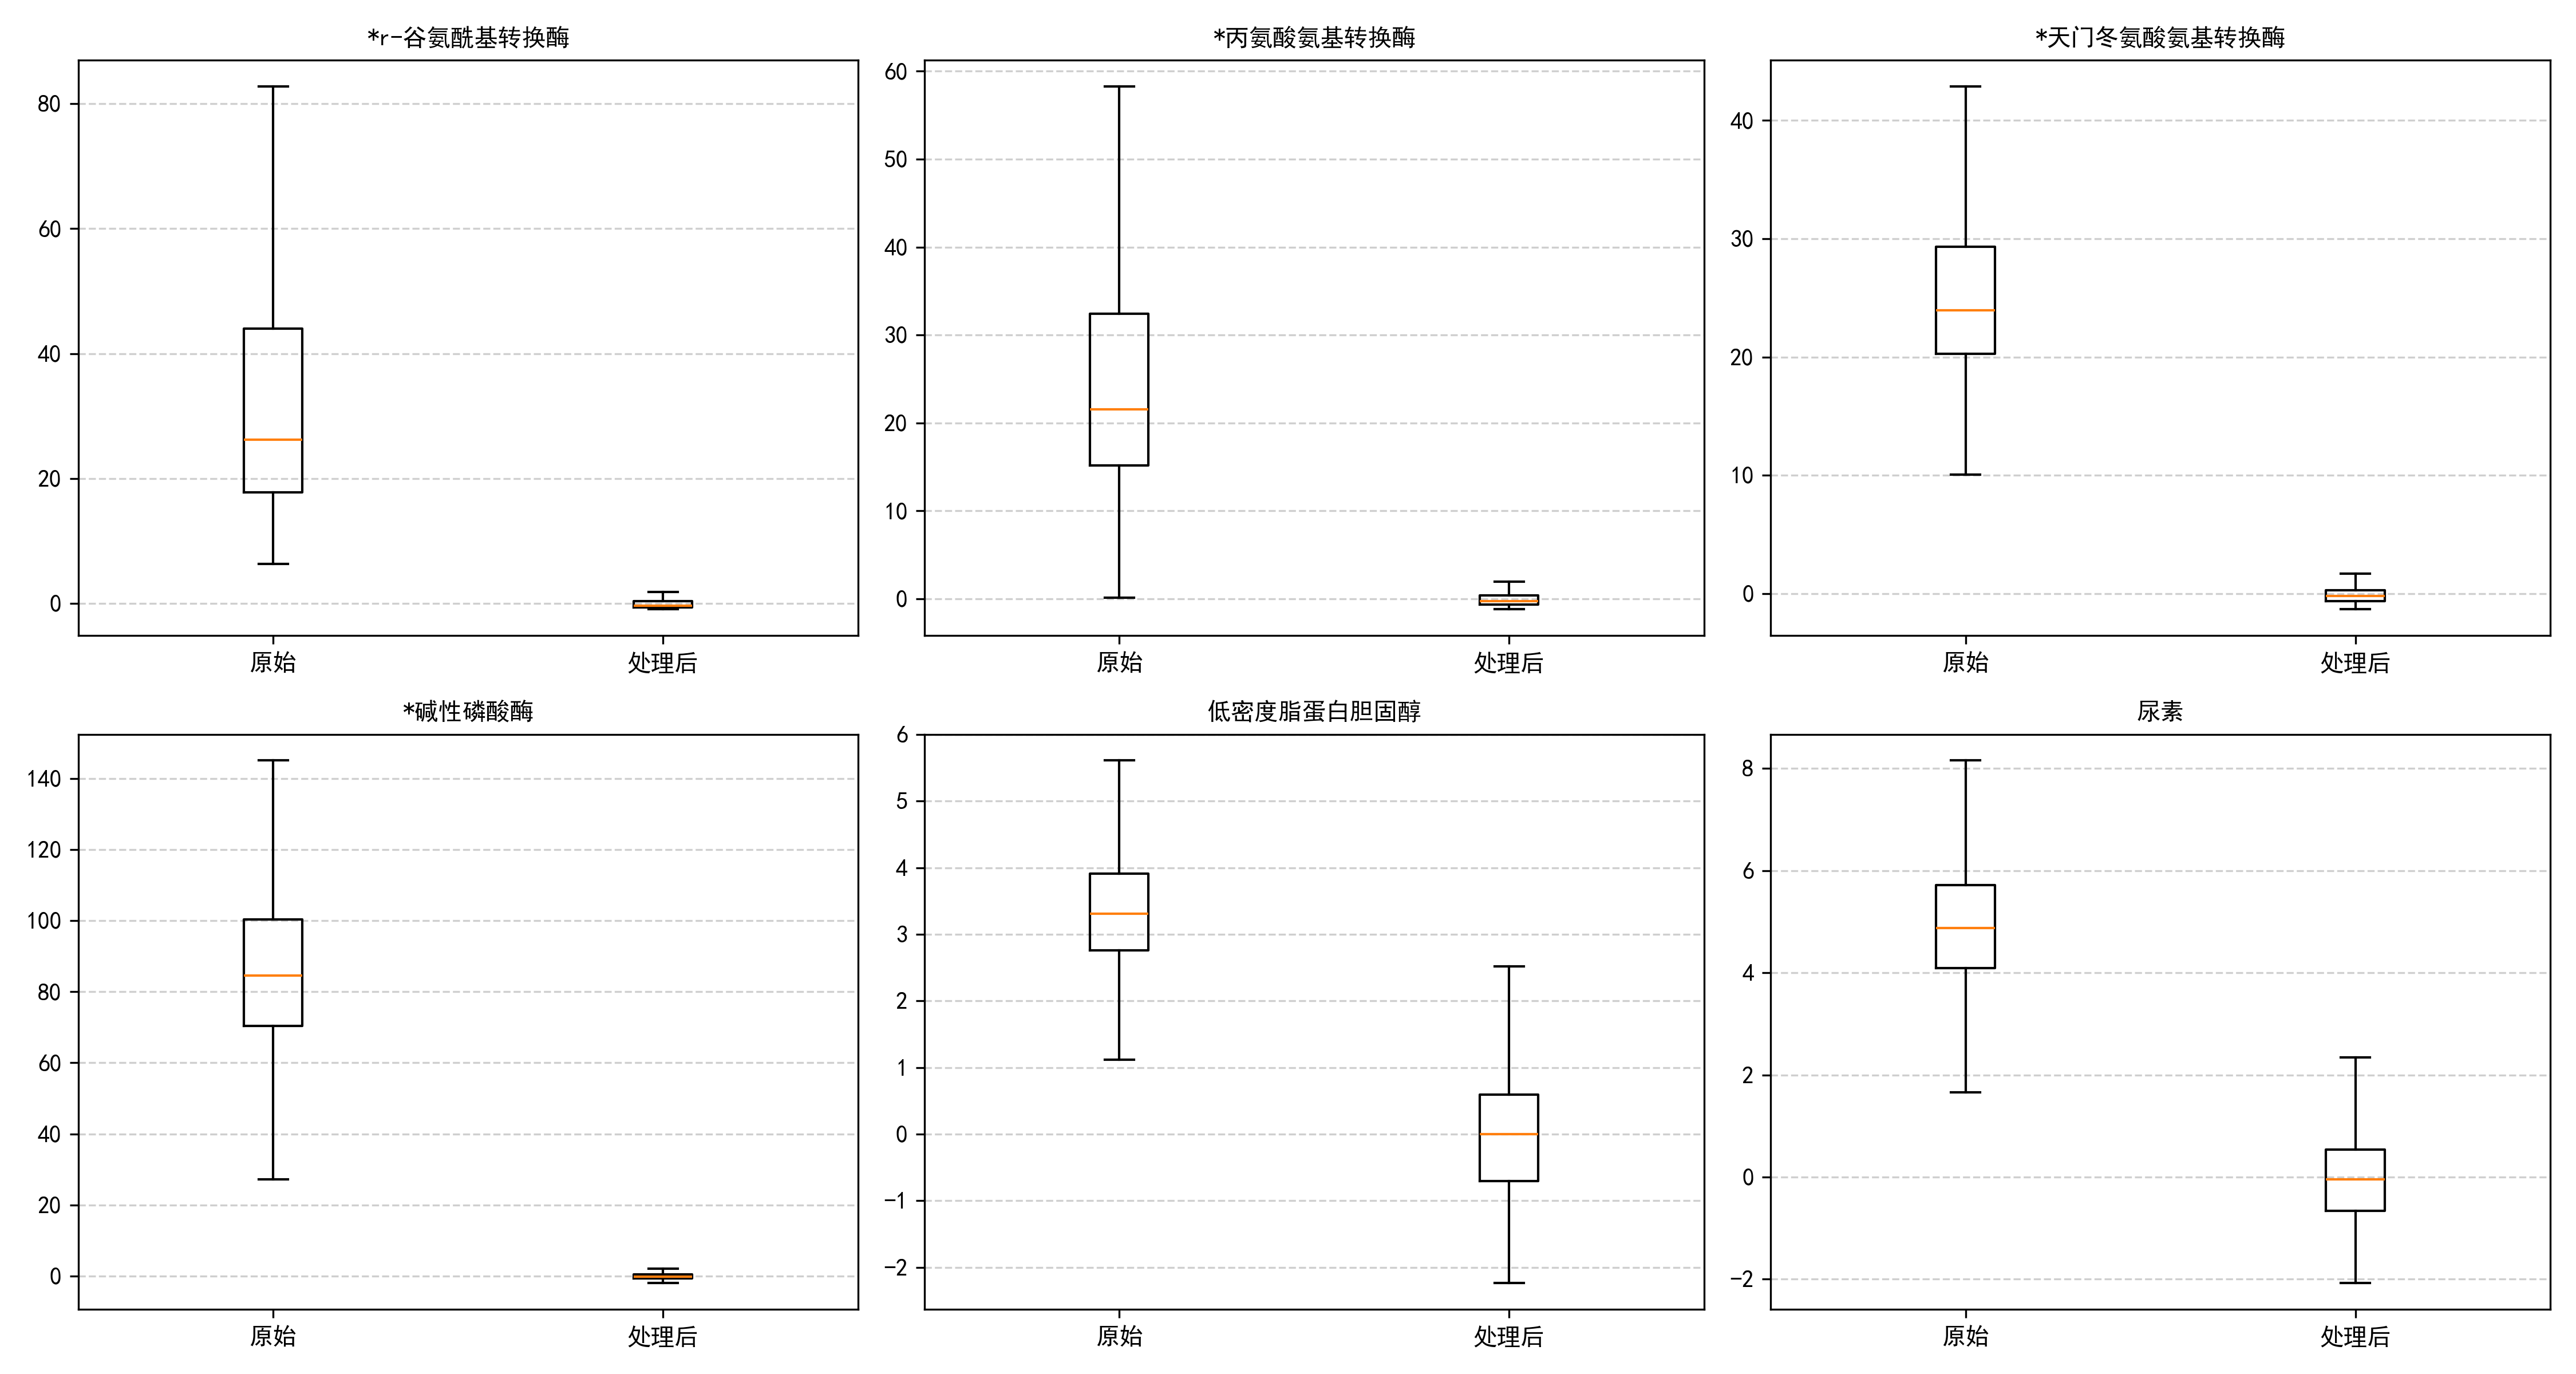
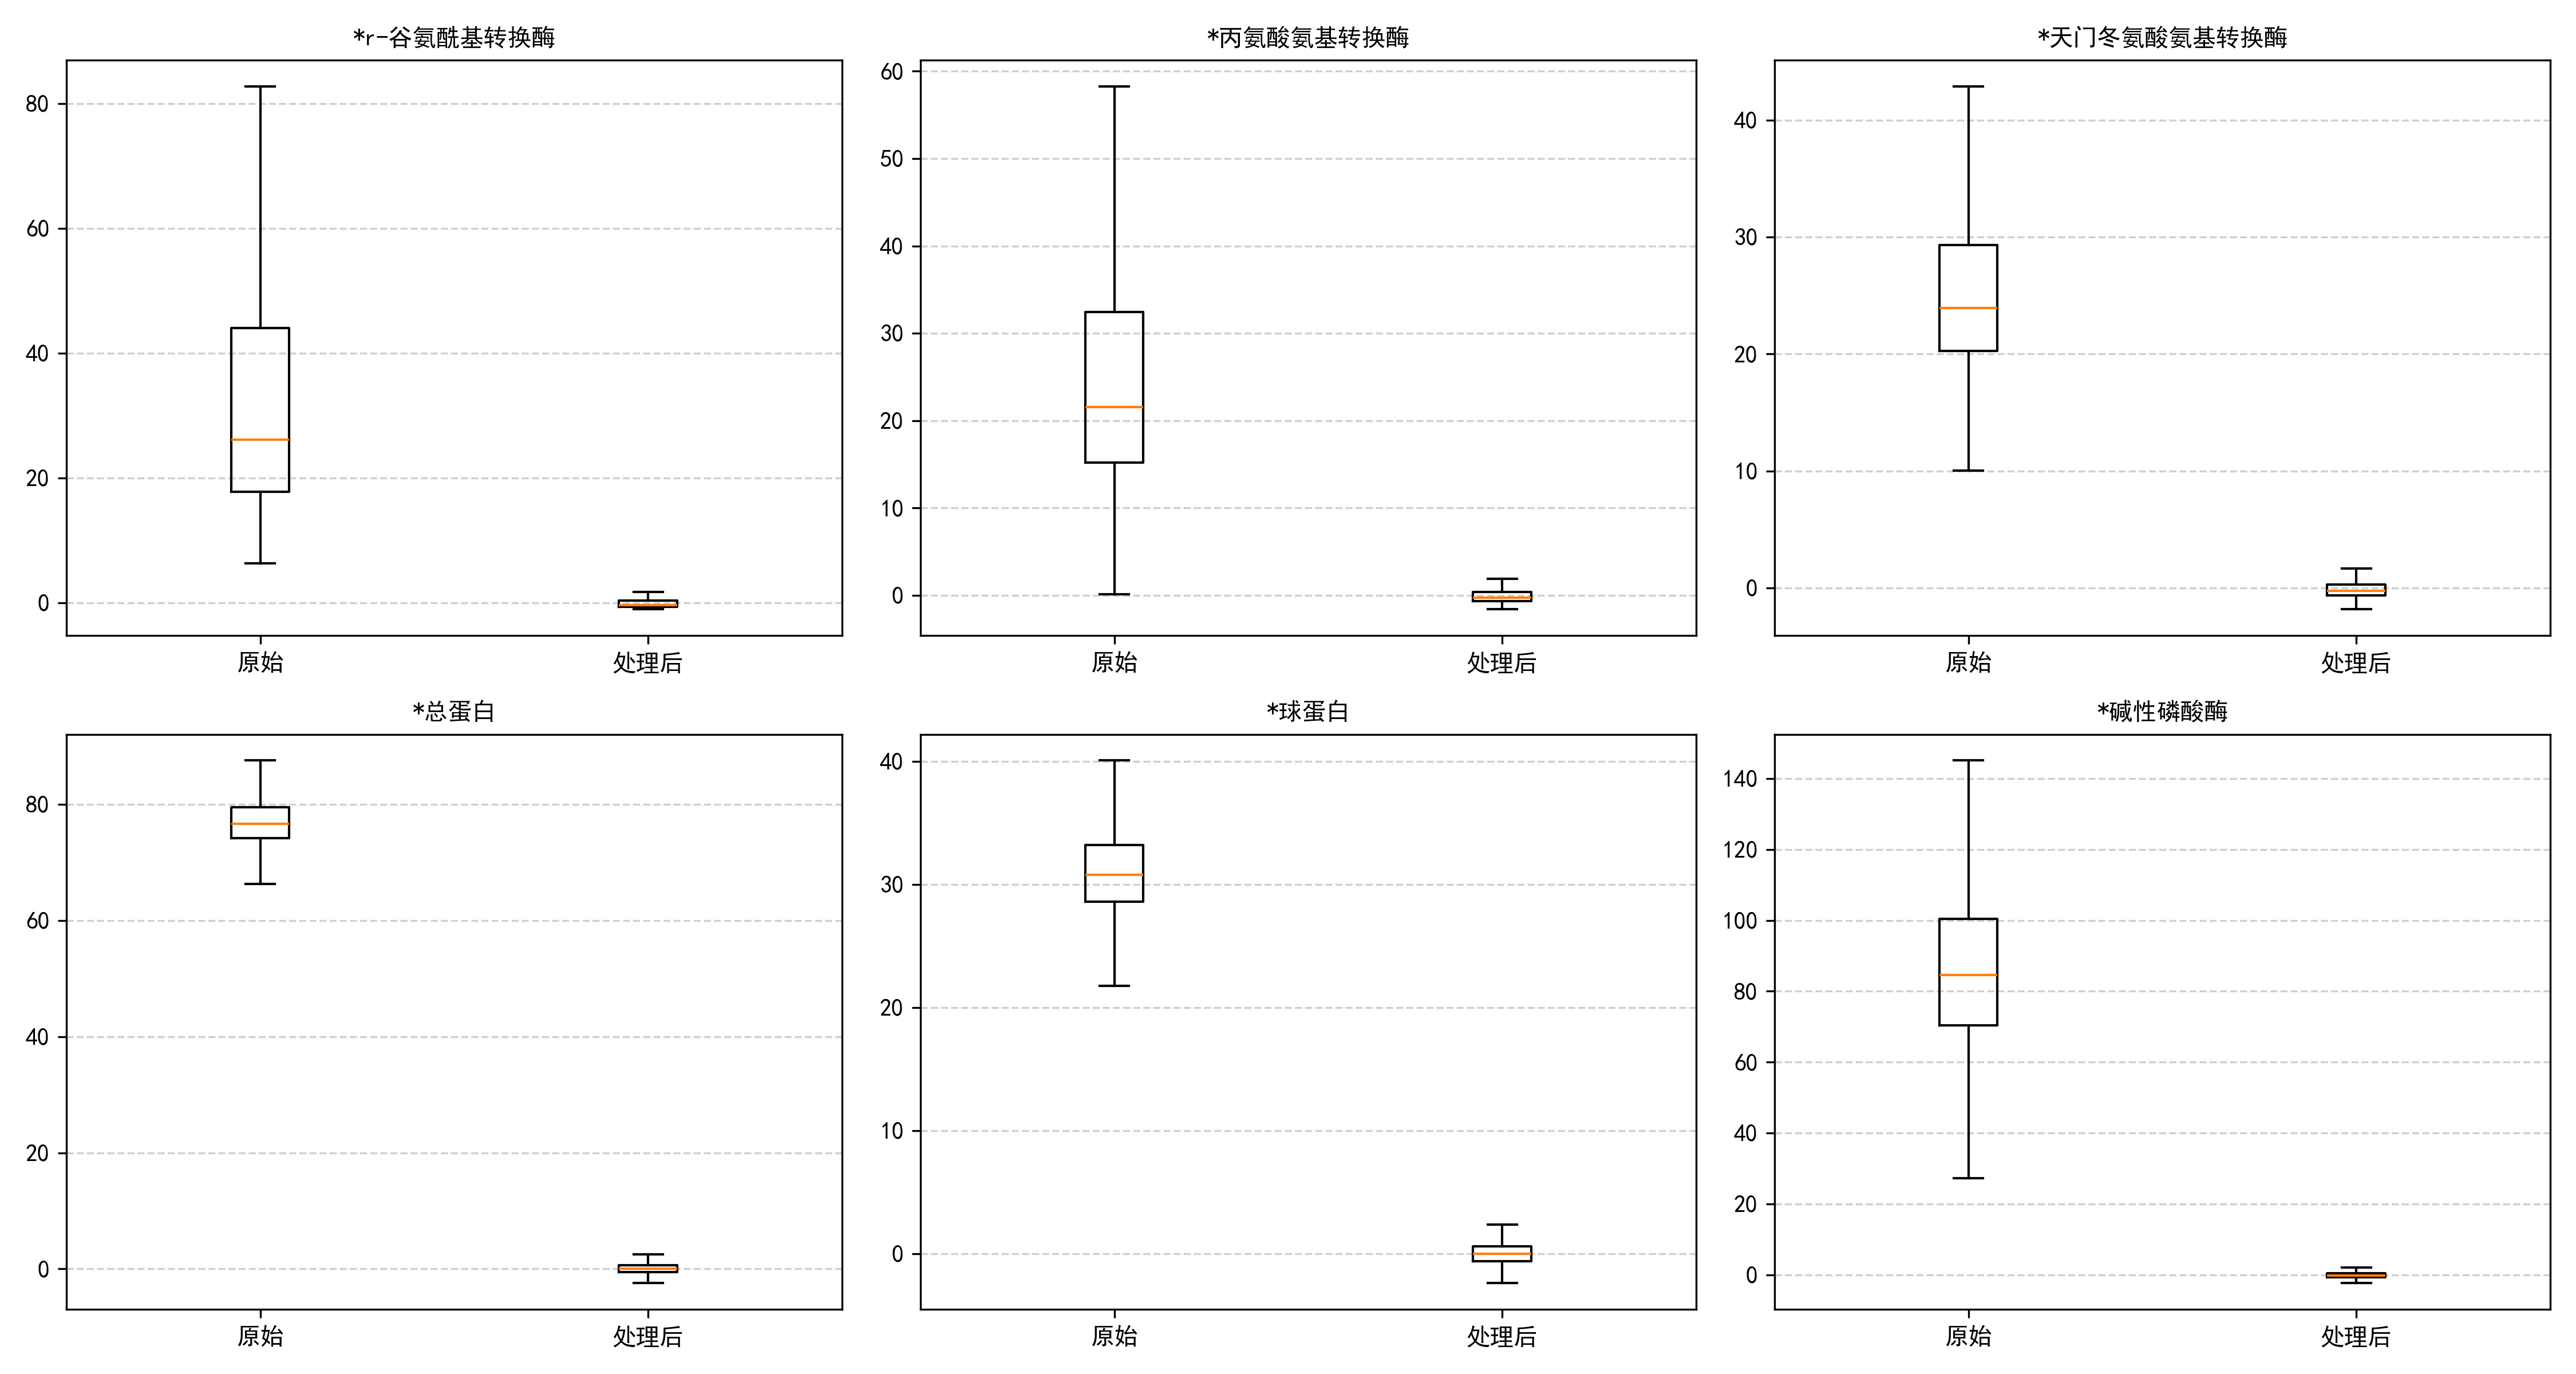
1

diff --git a/feature_selection.py b/feature_selection.py
@@ -4,7 +4,7 @@ import matplotlib.pyplot as plt
 import seaborn as sns
 from sklearn.linear_model import LassoCV
 from sklearn.ensemble import RandomForestRegressor
-from sklearn.preprocessing import MinMaxScaler
+from sklearn.preprocessing import StandardScaler, MinMaxScaler
 import os
 import warnings
 
@@ -15,107 +15,159 @@ plt.rcParams['font.sans-serif'] = ['SimHei', 'Microsoft YaHei']
 plt.rcParams['axes.unicode_minus'] = False
 os.makedirs('pictures', exist_ok=True)
 
-print("📥 加载预处理数据...")
+# 1. 加载预处理后的数据
+print("正在加载预处理后的数据...")
 df = pd.read_csv('with_blood_processed.csv')
+
 y = df['血糖']
 X = df.drop(columns=['血糖'])
+features = X.columns.tolist()
 
 # 结果收集容器
-results_df = pd.DataFrame(index=X.columns)
+results_df = pd.DataFrame({'特征': features}).set_index('特征')
 
-# ================= 1. Pearson 初筛与打分 =================
-print("🔍 步骤1: Pearson 相关系数初筛 (剔除 |r|<0.1)...")
-pearson = df.corr()['血糖'].abs().drop('血糖')
-results_df['Pearson'] = pearson
 
-# 初筛过滤（题目要求）
-pearson_pass = pearson[pearson >= 0.1].index.tolist()
-print(f"✅ Pearson 初筛保留: {len(pearson_pass)} 个特征")
+# 辅助函数：绘制带数据标签的水平条形图（修正颜色与边界）
+def plot_bar_with_labels(series, title, filename, unit='', top_n=20, color='steelblue', ascending=False):
+    plt.figure(figsize=(10, 8))
+    data_to_plot = series.sort_values(ascending=ascending).head(top_n)
 
-# 仅对通过初筛的特征进行后续计算
-X_pass = X[pearson_pass]
-results_df = results_df.loc[pearson_pass]
+    # 使用单一颜色，避免 palette 参数错误
+    ax = sns.barplot(x=data_to_plot.values, y=data_to_plot.index, color=color, edgecolor='black')
 
-# ================= 2. VIF 共线性检验与打分 =================
-print("📐 步骤2: VIF 多重共线性检验 (剔除 >10)...")
-# 使用稳定的 OLS 拟合计算 VIF，避免矩阵求逆奇异
-from numpy.linalg import pinv
-corr_mat = X_pass.corr().values
-vif_values = np.diag(pinv(corr_mat))
-# 修正理论最小值 1.0
-vif_values = np.maximum(vif_values, 1.0)
-vif_series = pd.Series(vif_values, index=X_pass.columns)
-results_df['VIF'] = vif_series
+    # 添加数据标签
+    for container in ax.containers:
+        ax.bar_label(container, fmt=f'%.4f {unit}', padding=5, fontsize=10)
 
-# 题目要求：>10 直接剔除
-vif_pass = vif_series[vif_series <= 10].index.tolist()
-print(f"✅ VIF 检验保留: {len(vif_pass)} 个特征 (剔除强共线性)")
-results_df = results_df.loc[vif_pass]
+    plt.title(title, fontsize=15, pad=15)
+    plt.xlabel('数值 / 分数')
+    plt.ylabel('特征名称')
+    max_val = data_to_plot.max()
+    # 处理全零情况
+    if max_val > 0:
+        plt.xlim(0 if data_to_plot.min() >= 0 else data_to_plot.min() * 1.1, max_val * 1.2)
+    else:
+        plt.xlim(0, 1)
+    plt.tight_layout()
+    plt.savefig(f'pictures/{filename}', dpi=300)
+    plt.close()
 
-# ================= 3. Lasso 正则化筛选 =================
-print("📉 步骤3: Lasso 回归 (L1正则压缩)...")
-# 注意：X_pass 已在预处理中标准化，此处无需重复 StandardScaler
-lasso = LassoCV(cv=5, random_state=42, n_jobs=-1).fit(X_pass, y)
-results_df['Lasso'] = pd.Series(np.abs(lasso.coef_), index=X_pass.columns)
 
-# ================= 4. 随机森林重要性 =================
-print("🌲 步骤4: Random Forest 特征重要性...")
-rf = RandomForestRegressor(n_estimators=300, max_depth=12, random_state=42, n_jobs=-1)
-rf.fit(X_pass, y)
-results_df['RF'] = pd.Series(rf.feature_importances_, index=X_pass.columns)
+# ================= 第一步：Pearson 相关系数 =================
+print("正在计算 Pearson 相关系数...")
+corr_matrix = df.corr()
+pearson_raw = corr_matrix['血糖'].drop('血糖').abs()
+results_df['Pearson(绝对值)'] = pearson_raw
 
-# ================= 5. 综合归一化与加权打分 =================
-print("📊 步骤5: 综合归一化打分...")
+plot_bar_with_labels(pearson_raw, 'Top 20 Pearson相关系数 (绝对值)', '01_Pearson_Raw.png', color='cornflowerblue')
+
+# ---------- 新增：Pearson初筛，剔除弱相关特征，但强制保留性别、年龄 ----------
+print("正在进行 Pearson 初筛 (|r| >= 0.05，并强制保留性别、年龄)...")
+# 初筛条件：相关系数绝对值 >= 0.05 或者特征名为 '性别' 或 '年龄'
+selected_by_pearson = pearson_raw[(pearson_raw >= 0.05) | (pearson_raw.index.isin(['性别', '年龄']))].index.tolist()
+print(f"初筛后保留特征数: {len(selected_by_pearson)}")
+X = X[selected_by_pearson]   # 后续只对通过初筛的特征进行分析
+
+# ================= 第二步：VIF 共线性计算 =================
+print("正在计算 VIF 多重共线性...")
+corr_mat = X.corr().values
+inv_corr = np.linalg.pinv(corr_mat)
+vif_raw = pd.Series(np.diag(inv_corr), index=X.columns)
+vif_raw = vif_raw.apply(lambda x: max(1.0, x))   # 将小于1的值修正为1（理论最小值）
+# 注意：results_df 中可能存在未通过初筛的特征，VIF 只对初筛后的特征填充
+results_df['VIF值'] = np.nan
+results_df.loc[vif_raw.index, 'VIF值'] = vif_raw
+
+plot_bar_with_labels(vif_raw, 'Top 20 独立特征 (VIF值最小)', '02_VIF_Raw.png', ascending=True, color='mediumseagreen')
+
+
+# ================= 第三步：Lasso 回归 =================
+print("正在计算 Lasso 惩罚系数...")
+scaler = StandardScaler()
+X_scaled = scaler.fit_transform(X)
+
+lasso = LassoCV(cv=5, random_state=42, n_jobs=-1).fit(X_scaled, y)
+lasso_raw = pd.Series(np.abs(lasso.coef_), index=X.columns)
+results_df['Lasso(绝对系数)'] = np.nan
+results_df.loc[lasso_raw.index, 'Lasso(绝对系数)'] = lasso_raw
+
+plot_bar_with_labels(lasso_raw, 'Top 20 Lasso回归系数 (绝对值)', '03_Lasso_Raw.png', color='salmon')
+
+
+# ================= 第四步：随机森林重要性 =================
+print("正在计算 Random Forest 特征重要性...")
+rf = RandomForestRegressor(n_estimators=100, random_state=42, n_jobs=-1)
+rf.fit(X, y)
+rf_raw = pd.Series(rf.feature_importances_, index=X.columns)
+results_df['RF(重要度)'] = np.nan
+results_df.loc[rf_raw.index, 'RF(重要度)'] = rf_raw
+
+plot_bar_with_labels(rf_raw, 'Top 20 随机森林特征重要性', '04_RF_Raw.png', color='orchid')
+
+
+# ================= 第五步：综合打分与排名 =================
+print("正在进行综合归一化打分...")
+# 仅对通过初筛的特征进行打分，避免 NaN 干扰
+scoring_features = X.columns.tolist()
 minmax = MinMaxScaler(feature_range=(0, 100))
 
-# 安全归一化（处理常数列防除零）
-results_df['S_Pearson'] = minmax.fit_transform(results_df[['Pearson']].fillna(0))
-results_df['S_VIF'] = minmax.fit_transform((1 / (results_df[['VIF']] + 1e-5)).fillna(0))
-results_df['S_Lasso'] = minmax.fit_transform(results_df[['Lasso']].fillna(0))
-results_df['S_RF'] = minmax.fit_transform(results_df[['RF']].fillna(0))
+results_df['Pearson_Score'] = np.nan
+results_df['VIF_Score'] = np.nan
+results_df['Lasso_Score'] = np.nan
+results_df['RF_Score'] = np.nan
 
-# 权重配置：模型驱动为主，统计为辅
-results_df['综合得分'] = (0.2 * results_df['S_Pearson'] +
-                          0.2 * results_df['S_VIF'] +
-                          0.3 * results_df['S_Lasso'] +
-                          0.3 * results_df['S_RF'])
+results_df.loc[scoring_features, 'Pearson_Score'] = minmax.fit_transform(results_df.loc[scoring_features, ['Pearson(绝对值)']])
+results_df.loc[scoring_features, 'VIF_Score'] = minmax.fit_transform(1 / results_df.loc[scoring_features, ['VIF值']])
+results_df.loc[scoring_features, 'Lasso_Score'] = minmax.fit_transform(results_df.loc[scoring_features, ['Lasso(绝对系数)']])
+results_df.loc[scoring_features, 'RF_Score'] = minmax.fit_transform(results_df.loc[scoring_features, ['RF(重要度)']])
 
-# ================= 6. Top 15 强制保留机制 =================
-print("🎯 步骤6: 选取 Top 15 特征...")
-results_df = results_df.sort_values('综合得分', ascending=False)
-top15 = results_df.head(15).copy()
+# 等权重求和（满分400）
+results_df['综合总分'] = (results_df['Pearson_Score'] + results_df['VIF_Score'] +
+                         results_df['Lasso_Score'] + results_df['RF_Score'])
 
-# 强制保留医学划分指标（年龄、性别）
-mandatory = ['年龄', '性别']
-for m in mandatory:
-    if m not in top15.index and m in results_df.index:
-        top15.loc[m] = results_df.loc[m]
-        # 若超出15个，剔除得分最低者
-        if len(top15) > 15:
-            top15 = top15.iloc[:-1]
+# ---------- 强制保留性别、年龄：将其综合总分设为满分，确保入选 ----------
+print("强制保留性别、年龄特征...")
+results_df.loc[['性别', '年龄'], '综合总分'] = 400.0
 
-final_features = top15.index.tolist()
+results_df = results_df.sort_values(by='综合总分', ascending=False)
 
-# ================= 7. 可视化与输出 =================
-print("📈 生成可视化图表...")
-plt.figure(figsize=(10, 8))
-sns.barplot(x=top15['综合得分'].values, y=top15.index, color='darkorange', edgecolor='black')
-for i, v in enumerate(top15['综合得分'].values):
-    plt.text(v + 2, i, f'{v:.1f}', va='center', fontsize=10)
-plt.title('Top 15 特征综合评估得分', fontsize=15)
-plt.xlabel('综合得分')
+plot_bar_with_labels(results_df['综合总分'].dropna(), '特征综合评估总分排名 (Top 20)', '05_Final_Total_Score.png',
+                     unit='分', color='darkorange')
+
+
+# ================= 第六步：Top 15 成对 VIF 热力图 =================
+print("正在绘制 Top 15 成对 VIF 热力图...")
+top15_features = results_df.head(15).index.tolist()
+X_top15 = X[top15_features]   # 注意：这里特征可能超出 X 的范围吗？top15肯定在 X 中因为性别年龄已入选且其他特征也在初筛中
+
+R_matrix = X_top15.corr().values
+pairwise_vif = 1 / (1 - R_matrix ** 2 + 1e-5)   # 加小量防除零
+pairwise_vif_df = pd.DataFrame(pairwise_vif, index=top15_features, columns=top15_features)
+
+plt.figure(figsize=(12, 10))
+sns.heatmap(pairwise_vif_df, annot=True, fmt=".2f", cmap="YlOrRd", vmin=1, vmax=10,
+            cbar_kws={'label': 'Pairwise VIF (限制 1~10)'})
+plt.title('Top 15 特征成对 VIF (共线性) 热力图\n(值越接近 1 说明特征间越独立)', fontsize=15)
+plt.xticks(rotation=45, ha='right')
+plt.yticks(rotation=0)
 plt.tight_layout()
-plt.savefig('pictures/07_Top15_Final_Score.png', dpi=300)
+plt.savefig('pictures/06_Top15_Pairwise_VIF_Heatmap.png', dpi=300)
 plt.close()
 
-# 保存结果
+# ================= 保存与输出结果 =================
 results_df.to_csv('feature_evaluation_scores.csv', encoding='utf-8-sig')
-df_final = df[final_features + ['血糖']]
+
+final_cols = top15_features + ['血糖']
+df_final = df[final_cols]
 df_final.to_csv('with_blood_top15.csv', index=False, encoding='utf-8-sig')
 
-print("\n" + "="*50)
-print("🏆 最终入模的 15 个主要特征如下：")
-for i, feat in enumerate(final_features, 1):
-    print(f"{i:02d}. {feat:<15} \t综合得分: {top15.loc[feat, '综合得分']:.2f}")
-print("="*50)
-print("✅ 已保存: with_blood_top15.csv (用于问题2/3/4训练)")
+print("\n================= 集成评估完成 =================\n")
+print("🎉 最终优胜的 15 个主要特征及其综合得分如下：")
+print("-" * 50)
+for i, feature in enumerate(top15_features, 1):
+    score = results_df.loc[feature, '综合总分']
+    print(f"{i:02d}. {feature:<20} \t综合得分: {score:.2f} / 400")
+print("-" * 50)
+print("\n所有图表(6张)已保存至 'pictures' 文件夹。")
+print("全量特征打分明细已保存至 'feature_evaluation_scores.csv'。")
+print("入模数据集已保存至 'with_blood_top15.csv'。")